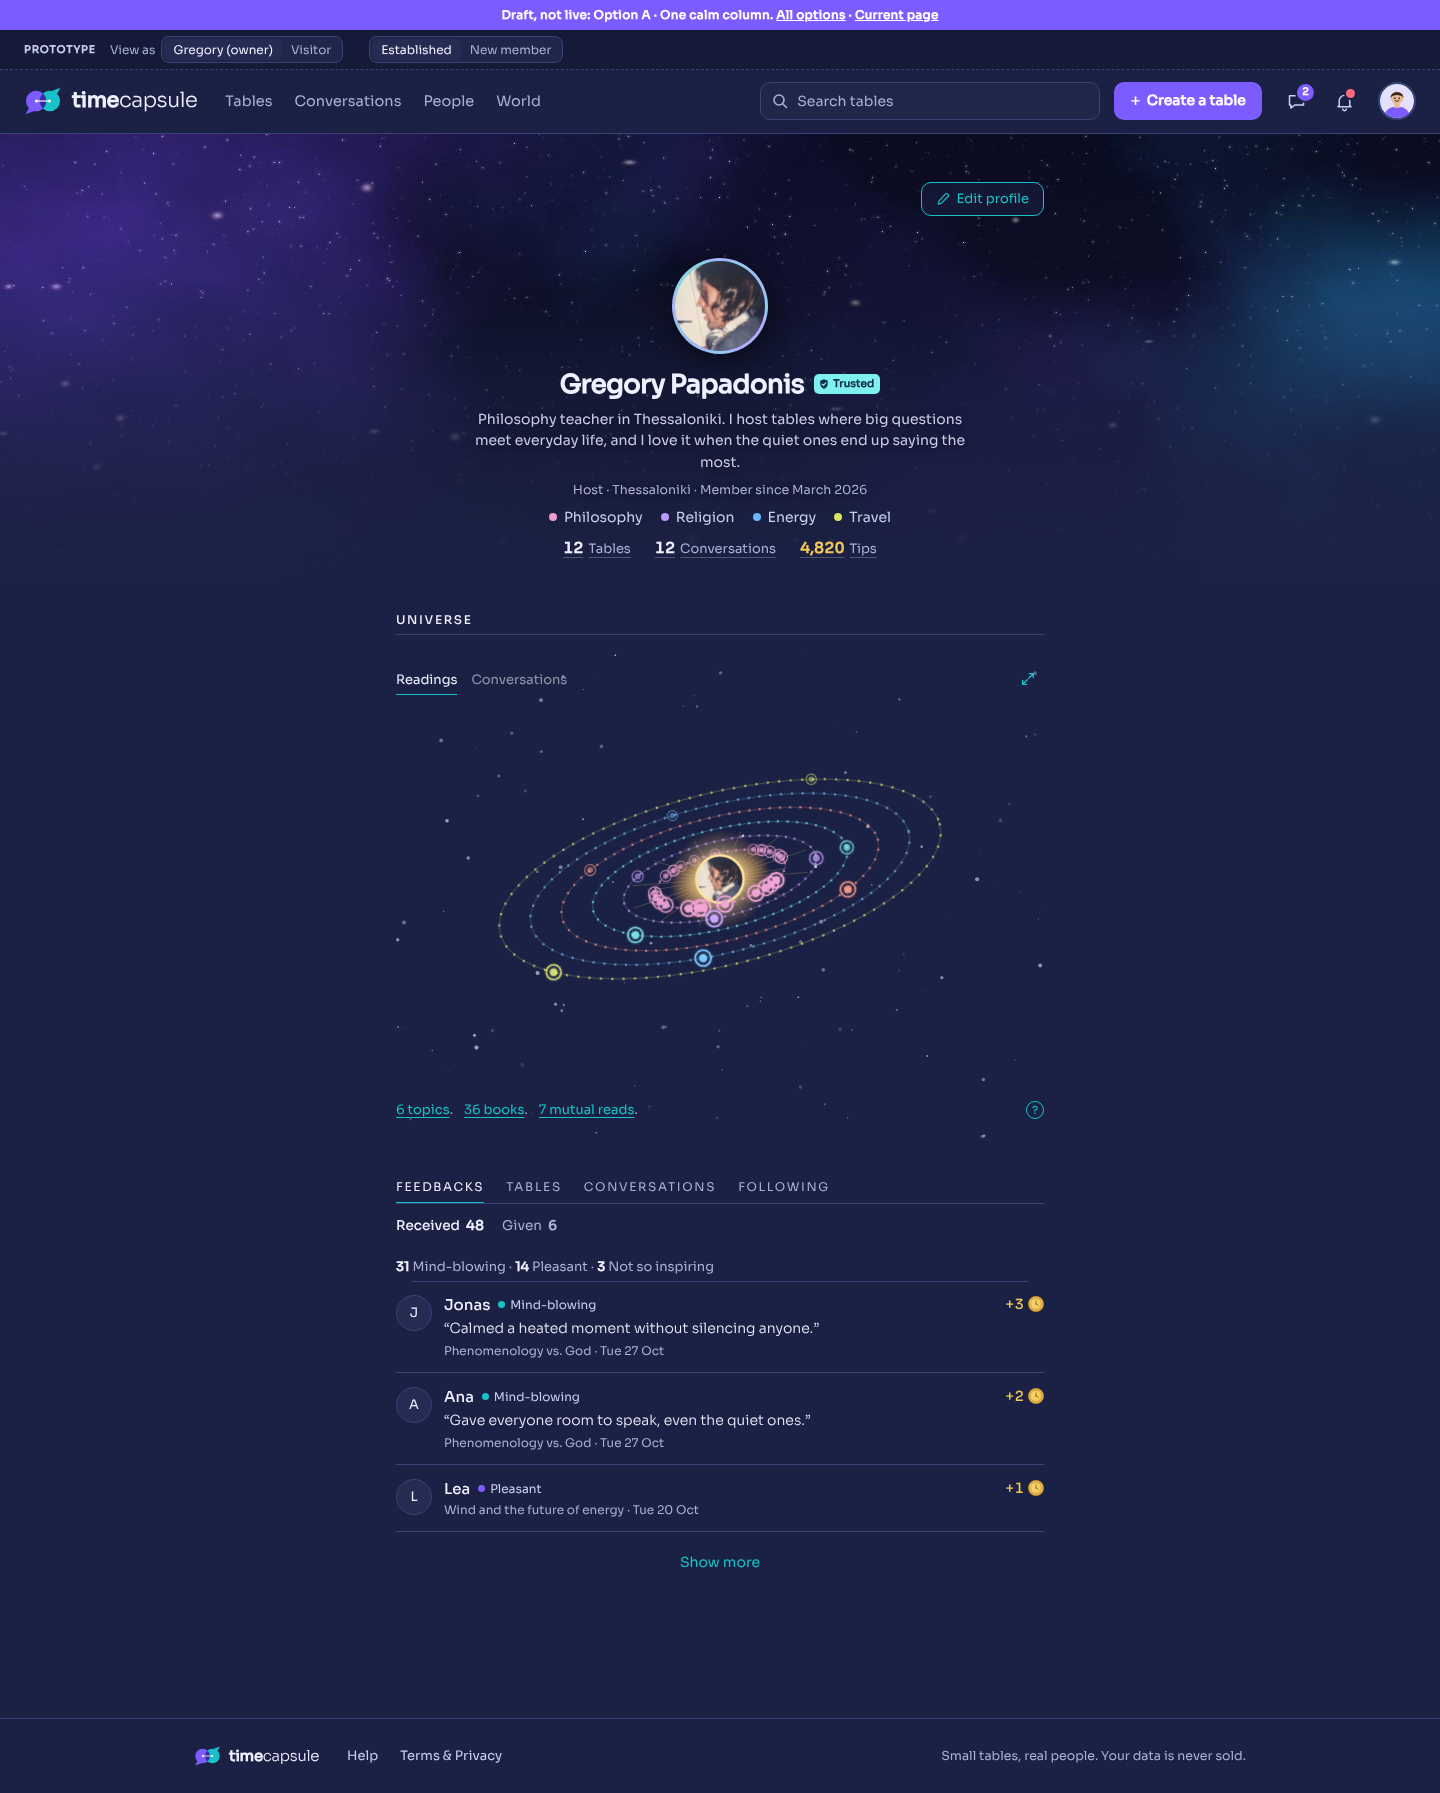
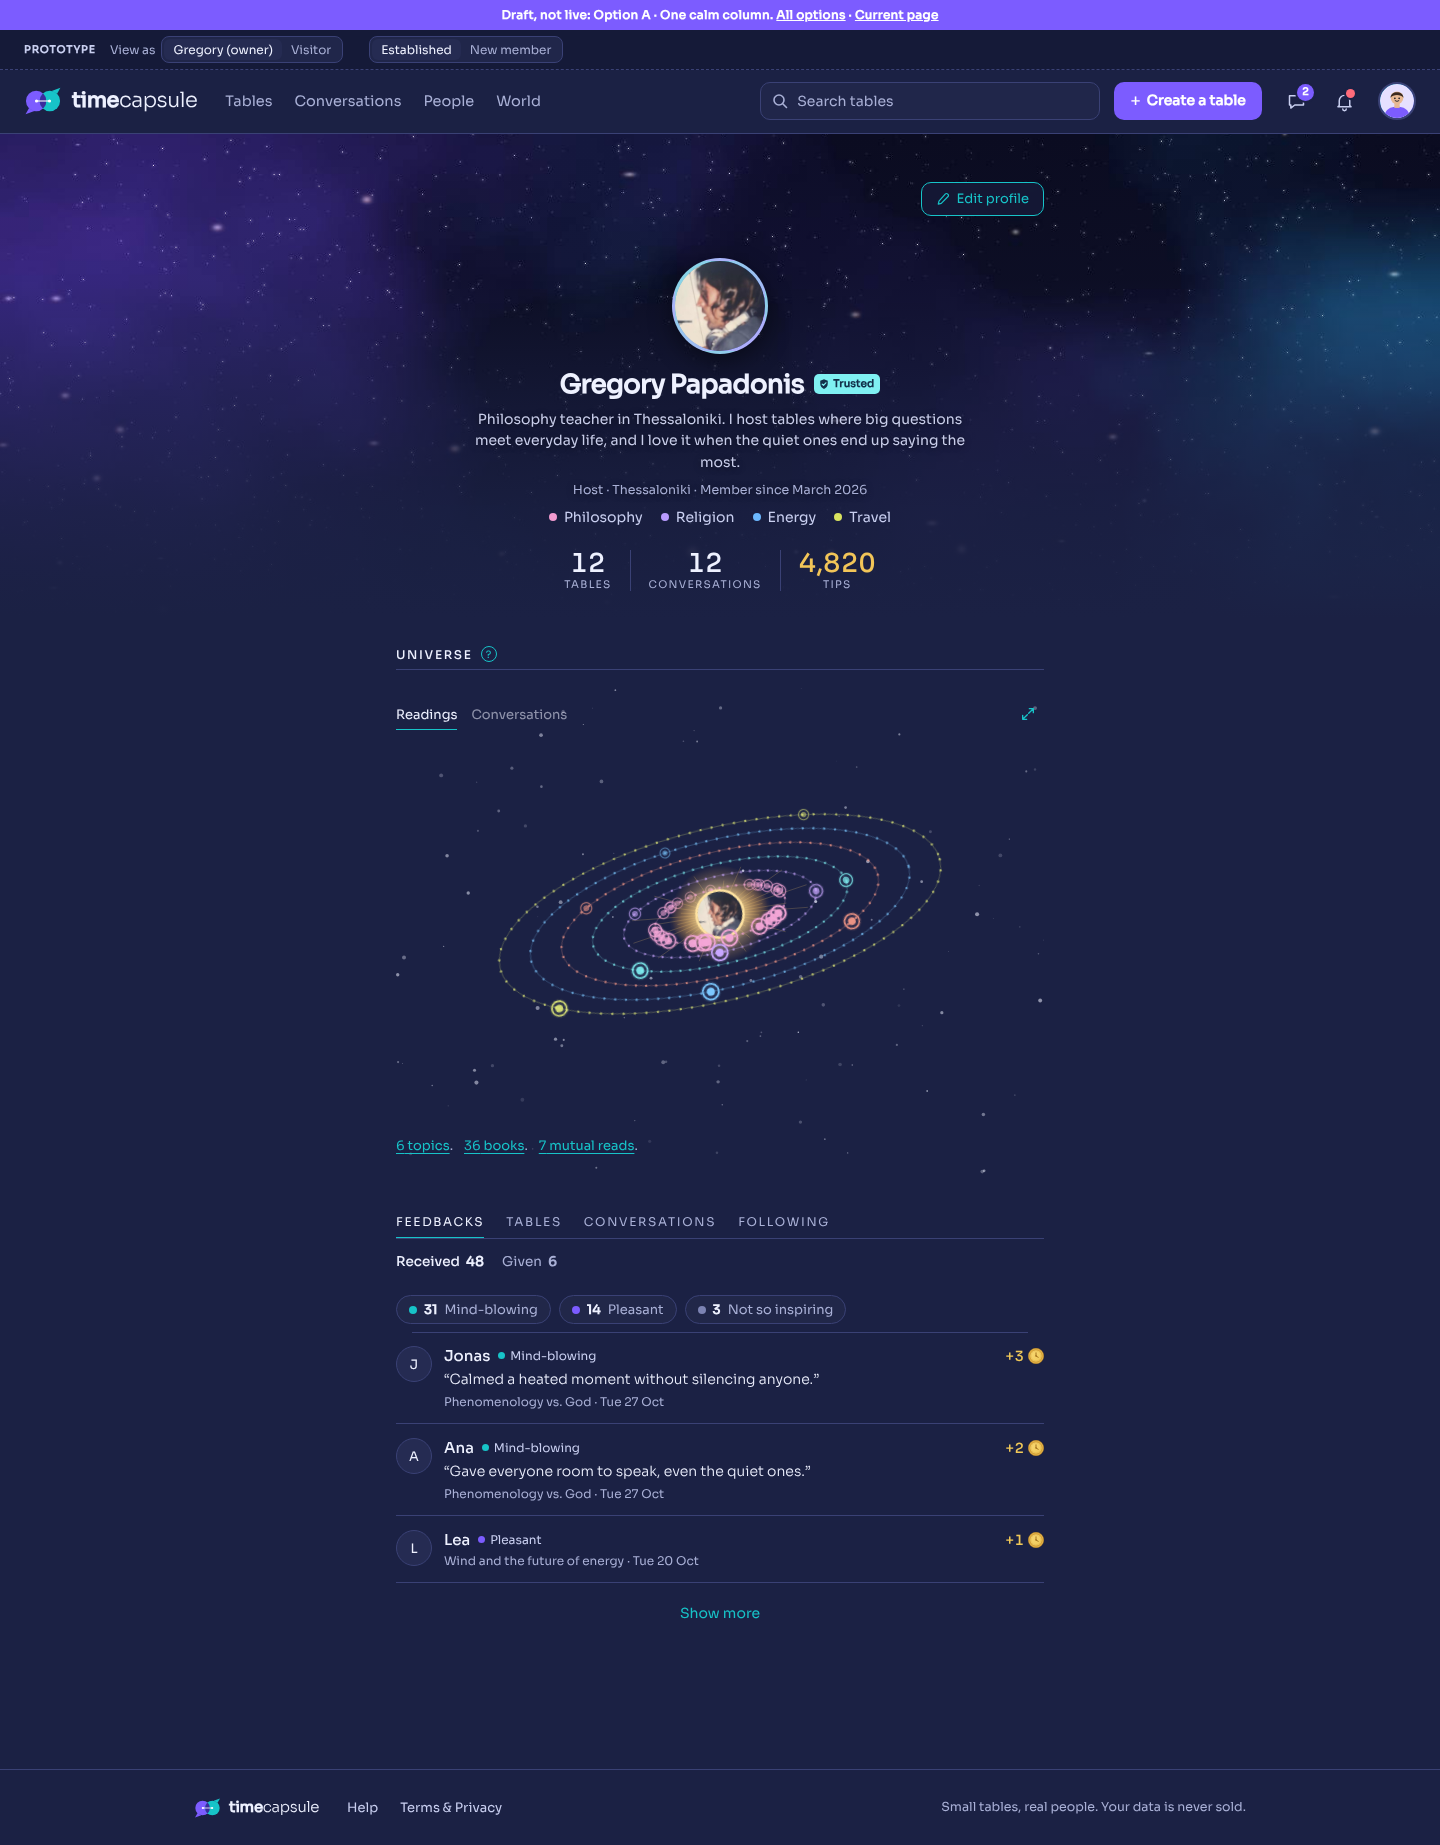
Profile option A: big stats under bio, rating chips filter, ? card by Universe title
Claude-Session: https://claude.ai/code/session_018eq6NgwUiJJnwPF1moeBy1

diff --git a/profile-options/option-a.html b/profile-options/option-a.html
@@ -695,22 +695,33 @@ main#vprofile{max-width:680px!important}
 .lbh #bio{max-width:520px}
 .lbh .lbright{display:contents}
 .lbh #editprof{position:absolute!important;top:20px;right:0;z-index:3}
-.lbstats{justify-content:center;gap:0}
-.lbstats div{display:flex!important;align-items:baseline;gap:5px;padding:0 12px!important}
-.lbstats div+div{border-left:0!important}
-.lbstats div+div::before{content:"·";color:var(--mute);margin-right:12px}
-.lbstats dd{font-size:15px!important;font-weight:600!important}
-.lbstats dt{font-size:13px!important;letter-spacing:0!important;text-transform:none!important}
-.lbstats dd,.lbstats dt{cursor:pointer;text-decoration:underline;text-decoration-color:rgba(238,241,255,.25);text-underline-offset:4px}
+.lbstats{justify-content:center;margin-top:10px!important}
 .lbh #herotags{justify-content:center;margin-top:2px}
 .lbbody{grid-template-columns:1fr!important;gap:40px!important}
 .lbside{display:grid!important;gap:0!important}
 .lbside>section:not(.lbreads){display:none!important}
 .lbreads #uniview .uni svg#uni{width:100%;max-height:380px}
 .lbreads .unicap{text-align:center}
-.lbtabs .list>li.fb:nth-child(n+4){display:none!important}
-.opt-rline{font-size:13px;color:var(--mute);margin:2px 0 6px}
-.opt-rline b{color:var(--text);font-weight:600}
+body:not(.opt-filt) .lbtabs .list>li.fb:nth-child(n+4){display:none!important}
+.opt-rchips{display:flex;flex-wrap:wrap;gap:8px;margin:4px 0 8px}
+.opt-rchips button{all:unset;cursor:pointer;display:inline-flex;align-items:center;gap:7px;padding:5px 12px;border-radius:999px;border:1px solid var(--line);background:rgba(238,241,255,.03);font-size:13px;color:var(--mute)}
+.opt-rchips button b{color:var(--text);font-weight:600}
+.opt-rchips button i{width:8px;height:8px;border-radius:50%;background:var(--teal)}
+.opt-rchips button:nth-child(2) i{background:var(--violet)}.opt-rchips button:nth-child(3) i{background:#7C83B3}
+.opt-rchips button:hover{border-color:rgba(238,241,255,.35);color:var(--text)}
+.opt-rchips button.on{border-color:#EEF1FF;background:rgba(238,241,255,.1);color:var(--text)}
+.opt-rchips button.dim{opacity:.45}
+.opt-rchips button:focus-visible{outline:2px solid var(--teal);outline-offset:2px}
+/* ? next to the Universe title, card opens under it */
+.lbreads .reads{position:relative}
+#uni-h{justify-content:flex-start!important;align-items:center;gap:8px}
+#uni-h #kq{position:static!important;margin:0;transform:none}
+.lbreads .reads>#kbox{top:34px;bottom:auto;left:0;right:auto;width:min(320px,100%);display:grid;gap:6px}
+.lbreads .reads>#kbox[hidden]{display:none}
+#kbox .opt-kh{margin-top:6px;font-size:12px!important;letter-spacing:.12em;text-transform:uppercase;color:var(--mute);font-weight:500}
+#kbox .opt-kh:first-of-type{margin-top:0}
+#uni-h #kq{width:16px;height:16px;font-size:10px}
+body .lbtabs .mix:has(.filt:not([hidden])){display:none}
 </style></head><body><div class="optbar">Draft, not live: Option A · One calm column. <a href="index.html" style="color:#fff">All options</a> · <a href="../profile/timecapsule-profile.html" style="color:#fff">Current page</a></div>
 <svg width="0" height="0" style="position:absolute" aria-hidden="true"><defs><linearGradient id="cg" x1="0" y1="0" x2="1" y2="1"><stop offset="0" stop-color="#F9DA74"/><stop offset="1" stop-color="#F0C858"/></linearGradient><symbol id="coin" viewBox="0 0 40 40"><circle cx="20" cy="20" r="19.2" fill="#E2AC3C" stroke="#B07A1C" stroke-width="1.4"/><circle cx="20" cy="20" r="17.6" fill="none" stroke="#FFE38A" stroke-width="1.6" stroke-dasharray="1 1.4"/><circle cx="20" cy="20" r="15.2" fill="url(#cg)" stroke="#B07A1C" stroke-width="1.1"/><circle cx="20" cy="20" r="12.4" fill="none" stroke="#C98F22" stroke-opacity=".6" stroke-width=".9"/><path d="M20 12V20L25.5 23.2" fill="none" stroke="#9A6614" stroke-width="2.2" stroke-linecap="round" stroke-linejoin="round"/><circle cx="20" cy="20" r="1.8" fill="#9A6614"/></symbol></defs></svg>
 
@@ -2100,10 +2111,31 @@ body.visitor #t-lb .lbc-o,body:not(.visitor) #t-lb .lbc-v{display:none}
 <script>window.addEventListener("load",function(){(function(){
  var tags=document.getElementById('herotags'),meta=document.querySelector('.lbmeta');
  if(tags&&meta)meta.after(tags);
- // one quiet line instead of the Ratings block
- var h=[...document.querySelectorAll('.hist button')].map(b=>'<b>'+b.querySelector('b').textContent+'</b> '+b.querySelector('span').textContent);
+ // ratings as tappable chips; each one filters the feedbacks (uses the page's own Ratings buttons)
+ var hb=[...document.querySelectorAll('.hist button')];
  var sw=document.querySelector('#p-fb .fbsw');
- if(sw&&h.length){var p=document.createElement('p');p.className='opt-rline';p.innerHTML=h.join(' · ');sw.after(p)}
+ if(sw&&hb.length){
+  var box=document.createElement('div');box.className='opt-rchips';box.setAttribute('role','group');box.setAttribute('aria-label','Filter by rating');
+  hb.forEach(function(b){var c=document.createElement('button');c.type='button';
+   c.innerHTML='<i></i><b>'+b.querySelector('b').textContent+'</b> '+b.querySelector('span').textContent;
+   c.addEventListener('click',function(){var y=scrollY;b.click();requestAnimationFrame(function(){scrollTo({top:y})})});
+   box.appendChild(c)});
+  sw.after(box);
+  var sync=function(){document.body.classList.toggle('opt-filt',hb.some(function(b){return b.classList.contains('on')}));hb.forEach(function(b,i){var c=box.children[i];c.classList.toggle('on',b.classList.contains('on'));c.classList.toggle('dim',b.classList.contains('dim'));c.setAttribute('aria-pressed',b.classList.contains('on'))})};
+  hb.forEach(function(b){new MutationObserver(sync).observe(b,{attributes:true,attributeFilter:['class']})});sync();
+ }
  document.querySelectorAll('.lbtabs .tabs b').forEach(b=>b.remove());
+ // ? next to the Universe title; card split into Readings and Conversations (text from My universe)
+ var h=document.getElementById('uni-h'),kq=document.getElementById('kq'),kb=document.getElementById('kbox'),reads=document.querySelector('.lbreads .reads');
+ if(h&&kq&&kb&&reads){
+  var old=kq.parentElement;h.appendChild(kq);if(old&&old.tagName=='SPAN'&&!old.textContent.trim()&&!old.children.length)old.remove();
+  kq.setAttribute('aria-label','What is in the universe?');
+  h.after(kb);
+  var kx=document.getElementById('kx');[...kb.children].forEach(function(n){if(n!==kx)n.remove()});
+  kb.insertAdjacentHTML('beforeend','<b class="opt-kh">Readings</b><p>The books and films that shaped how you think, sorted by topic. Add one and it joins the map on your profile.</p><b class="opt-kh">Conversations</b><p>What your tables left behind, saved and sorted by topic. Read one again, or pick it up for a new round.</p>');
+  kb.setAttribute('aria-label','About the universe');
+  new MutationObserver(function(){if(kq.getAttribute('aria-label')!='What is in the universe?')kq.setAttribute('aria-label','What is in the universe?');if(kb.getAttribute('aria-label')!='About the universe')kb.setAttribute('aria-label','About the universe')}).observe(kq,{attributes:true});
+ }
 })();
+(function(){var t=document.getElementById('t-fb');if(!t)return;var fix=function(){if(t.textContent.trim()!=='Feedbacks'){mo.disconnect();t.textContent='Feedbacks';mo.observe(t,{childList:true,subtree:true,characterData:true})}};var mo=new MutationObserver(fix);mo.observe(t,{childList:true,subtree:true,characterData:true});fix()})();
 });</script></body></html>

diff --git a/profile-options/a.js b/profile-options/a.js
@@ -1,9 +1,30 @@
 (function(){
  var tags=document.getElementById('herotags'),meta=document.querySelector('.lbmeta');
  if(tags&&meta)meta.after(tags);
- // one quiet line instead of the Ratings block
- var h=[...document.querySelectorAll('.hist button')].map(b=>'<b>'+b.querySelector('b').textContent+'</b> '+b.querySelector('span').textContent);
+ // ratings as tappable chips; each one filters the feedbacks (uses the page's own Ratings buttons)
+ var hb=[...document.querySelectorAll('.hist button')];
  var sw=document.querySelector('#p-fb .fbsw');
- if(sw&&h.length){var p=document.createElement('p');p.className='opt-rline';p.innerHTML=h.join(' · ');sw.after(p)}
+ if(sw&&hb.length){
+  var box=document.createElement('div');box.className='opt-rchips';box.setAttribute('role','group');box.setAttribute('aria-label','Filter by rating');
+  hb.forEach(function(b){var c=document.createElement('button');c.type='button';
+   c.innerHTML='<i></i><b>'+b.querySelector('b').textContent+'</b> '+b.querySelector('span').textContent;
+   c.addEventListener('click',function(){var y=scrollY;b.click();requestAnimationFrame(function(){scrollTo({top:y})})});
+   box.appendChild(c)});
+  sw.after(box);
+  var sync=function(){document.body.classList.toggle('opt-filt',hb.some(function(b){return b.classList.contains('on')}));hb.forEach(function(b,i){var c=box.children[i];c.classList.toggle('on',b.classList.contains('on'));c.classList.toggle('dim',b.classList.contains('dim'));c.setAttribute('aria-pressed',b.classList.contains('on'))})};
+  hb.forEach(function(b){new MutationObserver(sync).observe(b,{attributes:true,attributeFilter:['class']})});sync();
+ }
  document.querySelectorAll('.lbtabs .tabs b').forEach(b=>b.remove());
+ // ? next to the Universe title; card split into Readings and Conversations (text from My universe)
+ var h=document.getElementById('uni-h'),kq=document.getElementById('kq'),kb=document.getElementById('kbox'),reads=document.querySelector('.lbreads .reads');
+ if(h&&kq&&kb&&reads){
+  var old=kq.parentElement;h.appendChild(kq);if(old&&old.tagName=='SPAN'&&!old.textContent.trim()&&!old.children.length)old.remove();
+  kq.setAttribute('aria-label','What is in the universe?');
+  h.after(kb);
+  var kx=document.getElementById('kx');[...kb.children].forEach(function(n){if(n!==kx)n.remove()});
+  kb.insertAdjacentHTML('beforeend','<b class="opt-kh">Readings</b><p>The books and films that shaped how you think, sorted by topic. Add one and it joins the map on your profile.</p><b class="opt-kh">Conversations</b><p>What your tables left behind, saved and sorted by topic. Read one again, or pick it up for a new round.</p>');
+  kb.setAttribute('aria-label','About the universe');
+  new MutationObserver(function(){if(kq.getAttribute('aria-label')!='What is in the universe?')kq.setAttribute('aria-label','What is in the universe?');if(kb.getAttribute('aria-label')!='About the universe')kb.setAttribute('aria-label','About the universe')}).observe(kq,{attributes:true});
+ }
 })();
+(function(){var t=document.getElementById('t-fb');if(!t)return;var fix=function(){if(t.textContent.trim()!=='Feedbacks'){mo.disconnect();t.textContent='Feedbacks';mo.observe(t,{childList:true,subtree:true,characterData:true})}};var mo=new MutationObserver(fix);mo.observe(t,{childList:true,subtree:true,characterData:true});fix()})();

diff --git a/profile-options/a.css b/profile-options/a.css
@@ -7,19 +7,30 @@ main#vprofile{max-width:680px!important}
 .lbh #bio{max-width:520px}
 .lbh .lbright{display:contents}
 .lbh #editprof{position:absolute!important;top:20px;right:0;z-index:3}
-.lbstats{justify-content:center;gap:0}
-.lbstats div{display:flex!important;align-items:baseline;gap:5px;padding:0 12px!important}
-.lbstats div+div{border-left:0!important}
-.lbstats div+div::before{content:"·";color:var(--mute);margin-right:12px}
-.lbstats dd{font-size:15px!important;font-weight:600!important}
-.lbstats dt{font-size:13px!important;letter-spacing:0!important;text-transform:none!important}
-.lbstats dd,.lbstats dt{cursor:pointer;text-decoration:underline;text-decoration-color:rgba(238,241,255,.25);text-underline-offset:4px}
+.lbstats{justify-content:center;margin-top:10px!important}
 .lbh #herotags{justify-content:center;margin-top:2px}
 .lbbody{grid-template-columns:1fr!important;gap:40px!important}
 .lbside{display:grid!important;gap:0!important}
 .lbside>section:not(.lbreads){display:none!important}
 .lbreads #uniview .uni svg#uni{width:100%;max-height:380px}
 .lbreads .unicap{text-align:center}
-.lbtabs .list>li.fb:nth-child(n+4){display:none!important}
-.opt-rline{font-size:13px;color:var(--mute);margin:2px 0 6px}
-.opt-rline b{color:var(--text);font-weight:600}
+body:not(.opt-filt) .lbtabs .list>li.fb:nth-child(n+4){display:none!important}
+.opt-rchips{display:flex;flex-wrap:wrap;gap:8px;margin:4px 0 8px}
+.opt-rchips button{all:unset;cursor:pointer;display:inline-flex;align-items:center;gap:7px;padding:5px 12px;border-radius:999px;border:1px solid var(--line);background:rgba(238,241,255,.03);font-size:13px;color:var(--mute)}
+.opt-rchips button b{color:var(--text);font-weight:600}
+.opt-rchips button i{width:8px;height:8px;border-radius:50%;background:var(--teal)}
+.opt-rchips button:nth-child(2) i{background:var(--violet)}.opt-rchips button:nth-child(3) i{background:#7C83B3}
+.opt-rchips button:hover{border-color:rgba(238,241,255,.35);color:var(--text)}
+.opt-rchips button.on{border-color:#EEF1FF;background:rgba(238,241,255,.1);color:var(--text)}
+.opt-rchips button.dim{opacity:.45}
+.opt-rchips button:focus-visible{outline:2px solid var(--teal);outline-offset:2px}
+/* ? next to the Universe title, card opens under it */
+.lbreads .reads{position:relative}
+#uni-h{justify-content:flex-start!important;align-items:center;gap:8px}
+#uni-h #kq{position:static!important;margin:0;transform:none}
+.lbreads .reads>#kbox{top:34px;bottom:auto;left:0;right:auto;width:min(320px,100%);display:grid;gap:6px}
+.lbreads .reads>#kbox[hidden]{display:none}
+#kbox .opt-kh{margin-top:6px;font-size:12px!important;letter-spacing:.12em;text-transform:uppercase;color:var(--mute);font-weight:500}
+#kbox .opt-kh:first-of-type{margin-top:0}
+#uni-h #kq{width:16px;height:16px;font-size:10px}
+body .lbtabs .mix:has(.filt:not([hidden])){display:none}
